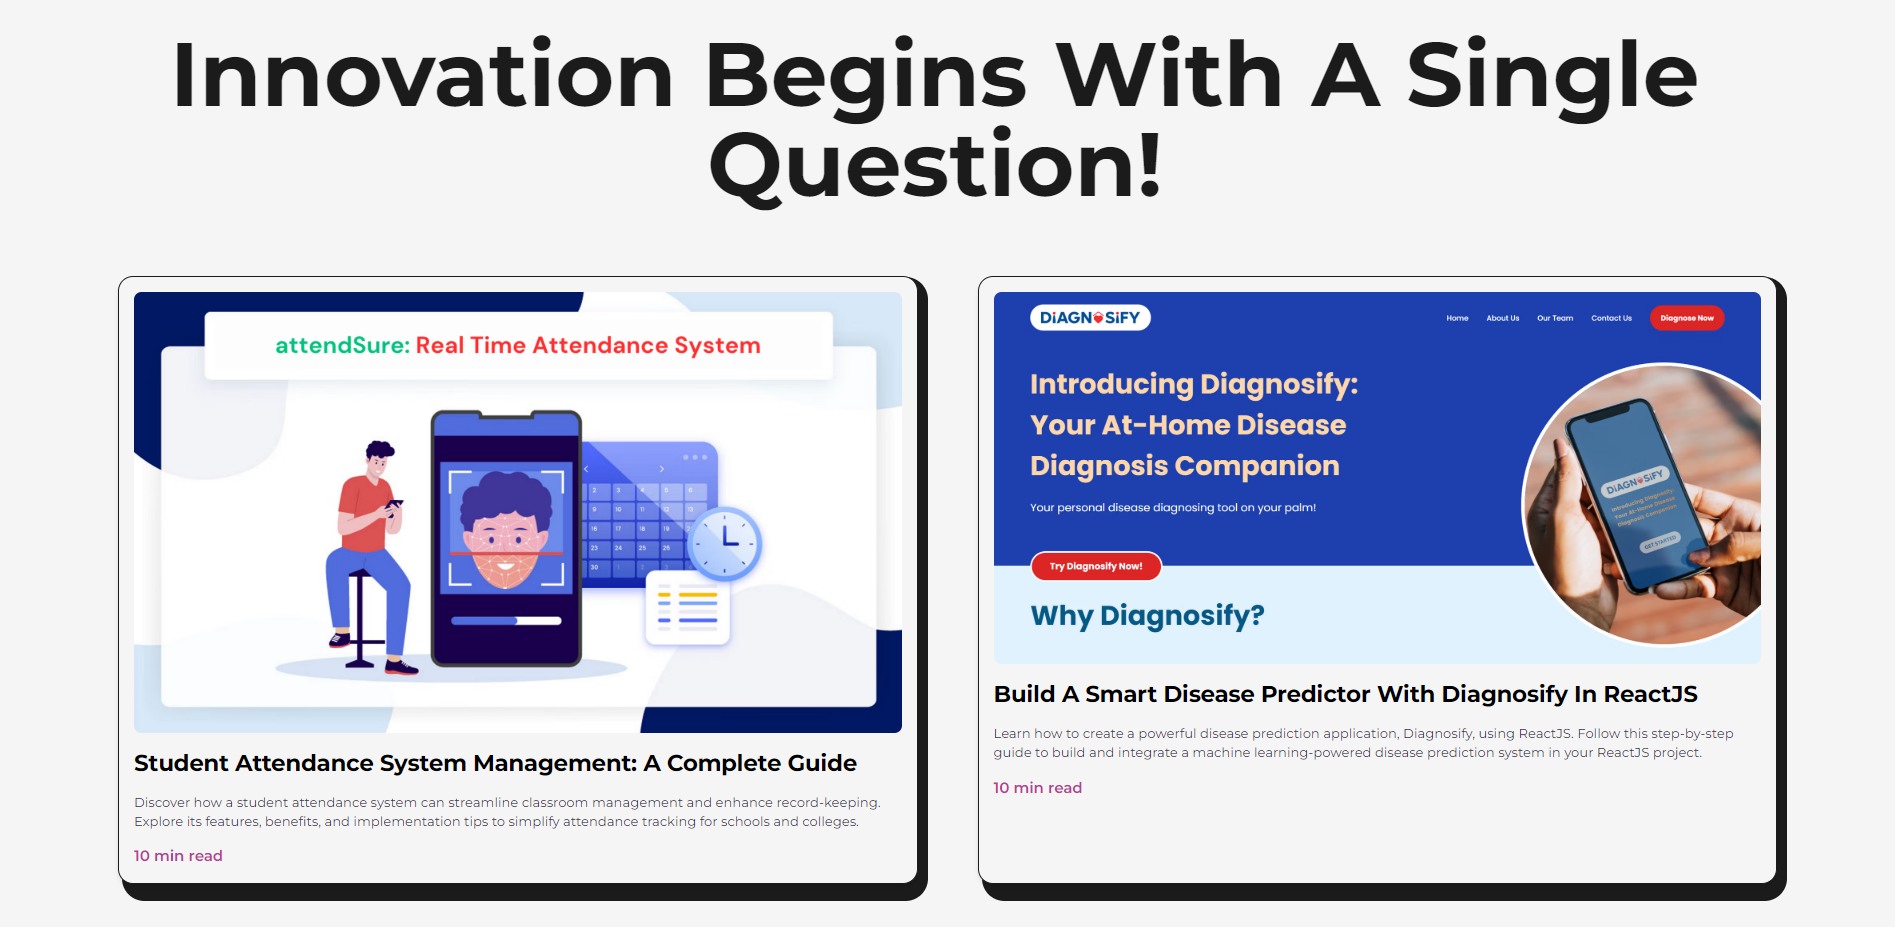
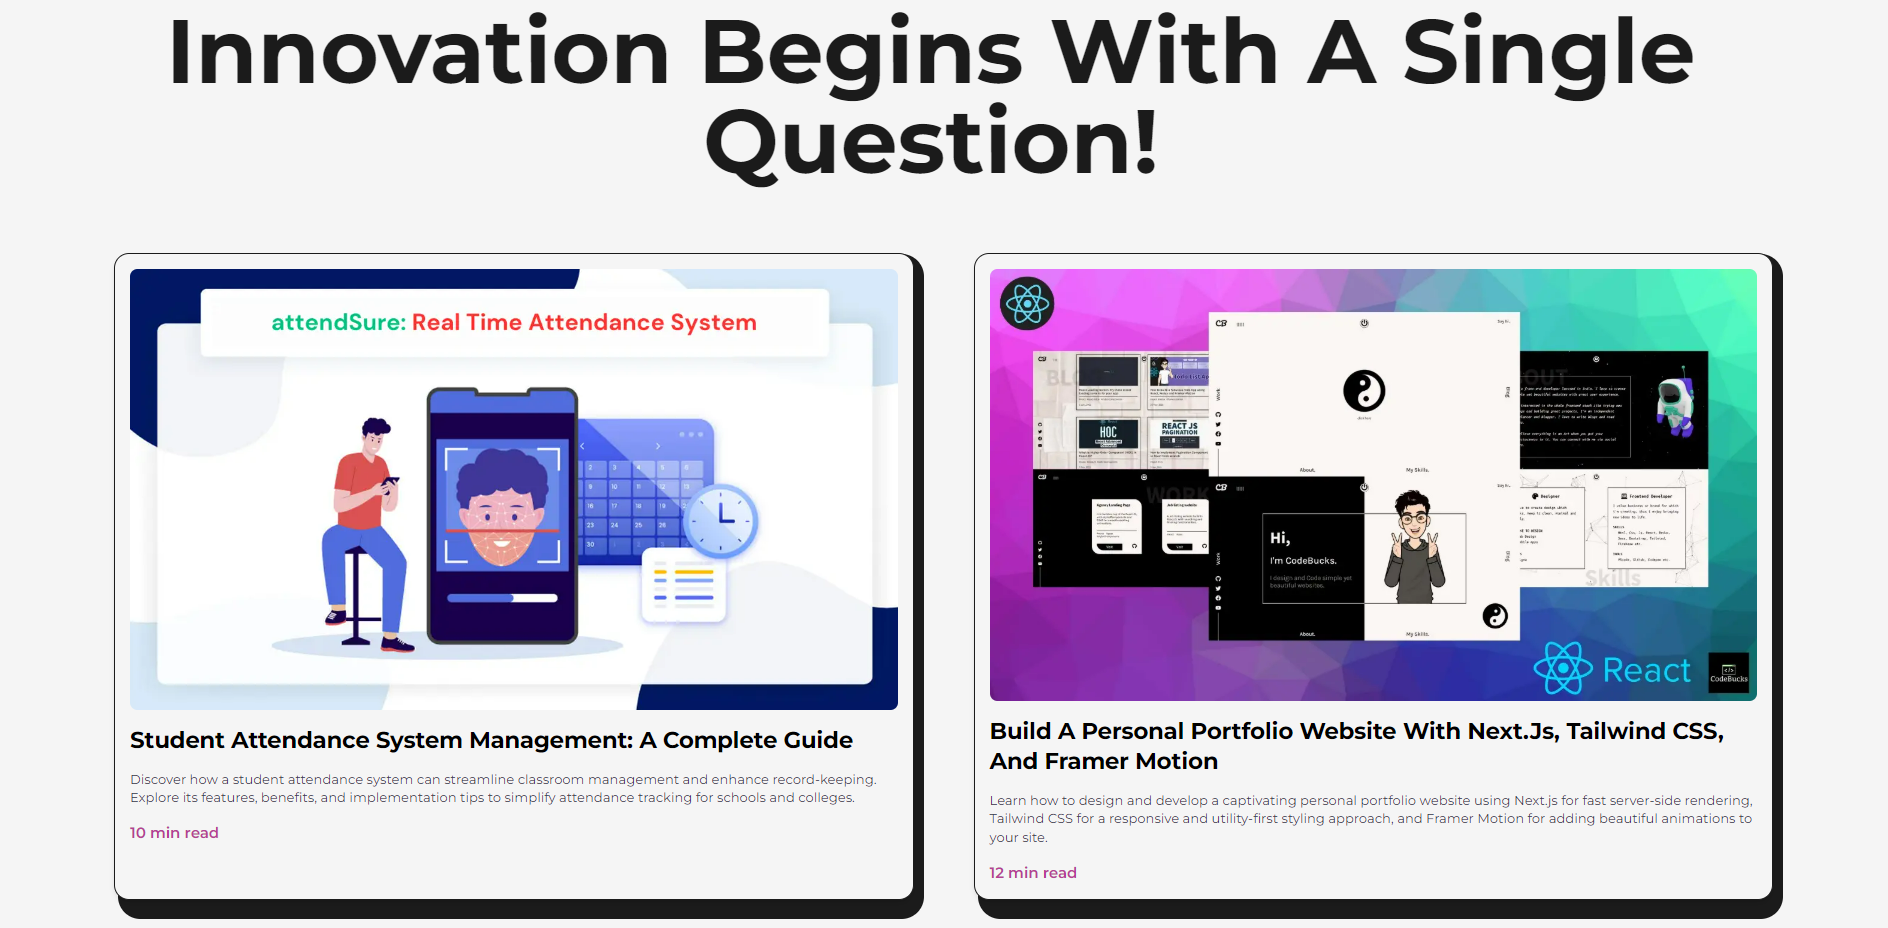
new changes add

diff --git a/my-project/README.md b/my-project/README.md
@@ -1,40 +1,60 @@
-This is a [Next.js](https://nextjs.org) project bootstrapped with [`create-next-app`](https://nextjs.org/docs/pages/api-reference/create-next-app).
+# Personal Portfolio Website 🌟
 
-## Getting Started
+This project is built using the following technologies:
+- **Next.js**: React-based framework for server-side rendering and static site generation.
+- **Tailwind CSS**: Utility-first CSS framework for creating elegant and responsive designs.
+- **Framer Motion**: Library for animations and interactions.
 
-First, run the development server:
+### Key Features
+1. **Dynamic Home Page**:
+   - Animated text and smooth transitions.
+   - Profile section with a downloadable resume and contact button.
 
-```bash
-npm run dev
-# or
-yarn dev
-# or
-pnpm dev
-# or
-bun dev
-```
+2. **About Section**:
+   - Personal introduction with smooth scroll animations.
+   - Display of skills using dynamic charts or icons.
 
-Open [http://localhost:3000](http://localhost:3000) with your browser to see the result.
+3. **Projects Section**:
+   - Featured project cards with hover effects.
+   - Grid layout for additional projects.
 
-You can start editing the page by modifying `pages/index.tsx`. The page auto-updates as you edit the file.
+4. **Articles Section**:
+   - A list of articles or blogs, with hover effects and cover images.
 
-[API routes](https://nextjs.org/docs/pages/building-your-application/routing/api-routes) can be accessed on [http://localhost:3000/api/hello](http://localhost:3000/api/hello). This endpoint can be edited in `pages/api/hello.ts`.
+5. **Dark Mode**:
+   - Toggle functionality to switch between light and dark themes.
 
-The `pages/api` directory is mapped to `/api/*`. Files in this directory are treated as [API routes](https://nextjs.org/docs/pages/building-your-application/routing/api-routes) instead of React pages.
+6. **Optimized for Performance**:
+   - Lighthouse score of 100 for performance, accessibility, and SEO.
+   - Lazy loading of images and assets.
 
-This project uses [`next/font`](https://nextjs.org/docs/pages/building-your-application/optimizing/fonts) to automatically optimize and load [Geist](https://vercel.com/font), a new font family for Vercel.
+For Demo checkout following link👇:  
+<a href="https://bijayrauniyar.vercel.app/" target="_blank">Personal Portfolio Website</a> </br>
 
-## Learn More
+### Images of The Portfolio Website:
+![Home Page](https://github.com/bijayrauniyar90/Personal-Portfolio-Website-with-NextJs--Tailwind-CSS---Framer-Motion/blob/main/website%20images/1.png)
+![Biography](https://github.com/bijayrauniyar90/Personal-Portfolio-Website-with-NextJs--Tailwind-CSS---Framer-Motion/blob/main/website%20images/2.png)
+![Skills](https://github.com/bijayrauniyar90/Personal-Portfolio-Website-with-NextJs--Tailwind-CSS---Framer-Motion/blob/main/website%20images/3.png)
+![Experience](https://github.com/bijayrauniyar90/Personal-Portfolio-Website-with-NextJs--Tailwind-CSS---Framer-Motion/blob/main/website%20images/4.png)
+![Education](https://github.com/bijayrauniyar90/Personal-Portfolio-Website-with-NextJs--Tailwind-CSS---Framer-Motion/blob/main/website%20images/5.png)
+![Projects](https://github.com/bijayrauniyar90/Personal-Portfolio-Website-with-NextJs--Tailwind-CSS---Framer-Motion/blob/main/website%20images/6.png)
+![Articles of Projects](https://github.com/bijayrauniyar90/Personal-Portfolio-Website-with-NextJs--Tailwind-CSS---Framer-Motion/blob/main/website%20images/7.png)
+![All Articles of Projects](https://github.com/bijayrauniyar90/Personal-Portfolio-Website-with-NextJs--Tailwind-CSS---Framer-Motion/blob/main/website%20images/8.png)
 
-To learn more about Next.js, take a look at the following resources:
+### Images of The Portfolio Website in Dark Mode:
+![Home Page Dark Mode](https://github.com/bijayrauniyar90/Personal-Portfolio-Website-with-NextJs--Tailwind-CSS---Framer-Motion/blob/main/website%20images/11.png)
+![Biography Dark Mode](https://github.com/bijayrauniyar90/Personal-Portfolio-Website-with-NextJs--Tailwind-CSS---Framer-Motion/blob/main/website%20images/22.png)
+![Skills Dark Mode](https://github.com/bijayrauniyar90/Personal-Portfolio-Website-with-NextJs--Tailwind-CSS---Framer-Motion/blob/main/website%20images/33.png)
+![Experience Dark Mode](https://github.com/bijayrauniyar90/Personal-Portfolio-Website-with-NextJs--Tailwind-CSS---Framer-Motion/blob/main/website%20images/44.png)
+![Education Dark Mode](https://github.com/bijayrauniyar90/Personal-Portfolio-Website-with-NextJs--Tailwind-CSS---Framer-Motion/blob/main/website%20images/55.png)
+![Projects Dark Mode](https://github.com/bijayrauniyar90/Personal-Portfolio-Website-with-NextJs--Tailwind-CSS---Framer-Motion/blob/main/website%20images/66.png)
+![Articles of project Dark Mode](https://github.com/bijayrauniyar90/Personal-Portfolio-Website-with-NextJs--Tailwind-CSS---Framer-Motion/blob/main/website%20images/44.png)
+![All Articles of project Dark Mode](https://github.com/bijayrauniyar90/Personal-Portfolio-Website-with-NextJs--Tailwind-CSS---Framer-Motion/blob/main/website%20images/88.png)
 
-- [Next.js Documentation](https://nextjs.org/docs) - learn about Next.js features and API.
-- [Learn Next.js](https://nextjs.org/learn-pages-router) - an interactive Next.js tutorial.
 
-You can check out [the Next.js GitHub repository](https://github.com/vercel/next.js) - your feedback and contributions are welcome!
+### Resources Used in This Project
 
-## Deploy on Vercel
-
-The easiest way to deploy your Next.js app is to use the [Vercel Platform](https://vercel.com/new?utm_medium=default-template&filter=next.js&utm_source=create-next-app&utm_campaign=create-next-app-readme) from the creators of Next.js.
-
-Check out our [Next.js deployment documentation](https://nextjs.org/docs/pages/building-your-application/deploying) for more details.
+- Profile image in the home page created by using https://www.freepik.com/ tool.
+- Fonts from https://fonts.google.com/ <br />
+- Icons from https://iconify.design/ <br />
+- LightBulb Svg from https://lukaszadam.com/illustrations <br />
